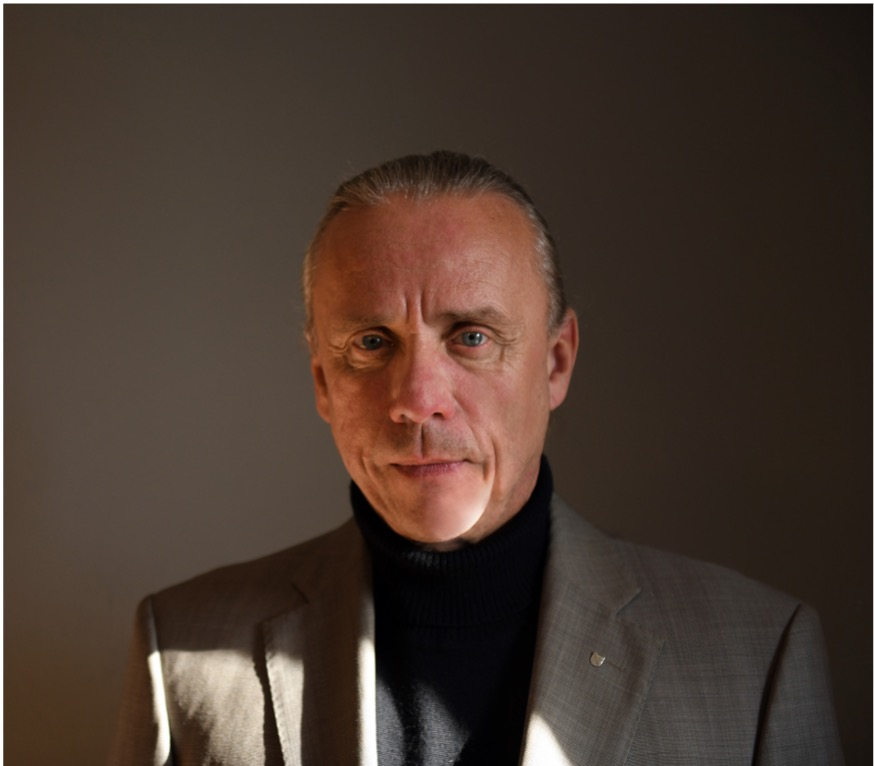
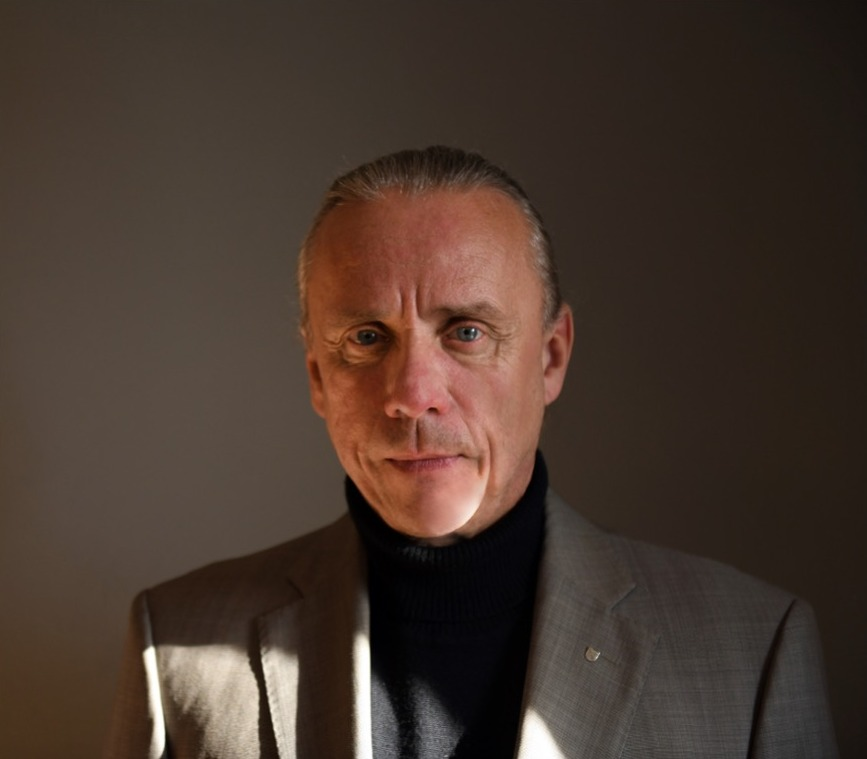
cv: Grey/Sleek-Theme (monochrom), Foto-Rand-Crop, EN ohne Foto, non-blocking Fonts

diff --git a/HTML/cv.html b/HTML/cv.html
@@ -8,101 +8,99 @@
 <link rel="icon" href="resources/favicon.svg">
 <link rel="preconnect" href="https://fonts.googleapis.com">
 <link rel="preconnect" href="https://fonts.gstatic.com" crossorigin>
-<link href="https://fonts.googleapis.com/css2?family=Orbitron:wght@500;700;900&display=swap" rel="stylesheet">
+<!-- Non-blocking font load: page renders instantly on bad networks, Orbitron swaps in when available -->
+<link href="https://fonts.googleapis.com/css2?family=Orbitron:wght@500;700;900&display=swap" rel="stylesheet" media="print" onload="this.media='all'">
+<noscript><link href="https://fonts.googleapis.com/css2?family=Orbitron:wght@500;700;900&display=swap" rel="stylesheet"></noscript>
 <style>
+  /* Monochrome "sleek" theme: graphite greys, hairlines, no colour */
   :root {
-    --bg: rgb(8, 20, 42);
-    --panel: rgb(14, 36, 78);
-    --panel-soft: rgba(14, 36, 78, 0.55);
-    --lambda: rgb(245, 194, 66);   /* orange – text/accents only */
-    --phi: rgb(121, 158, 49);      /* green – actions/active */
-    --upsilon: rgb(176, 36, 24);   /* red – sparingly */
-    --text: #e8eef9;
-    --muted: #9fb0cc;
-    --line: rgba(159, 176, 204, 0.25);
+    --bg: #141518;
+    --card: #1b1d21;
+    --text: #e8eaed;
+    --muted: #979da6;
+    --hair: rgba(255, 255, 255, 0.10);
+    --hair-strong: rgba(255, 255, 255, 0.28);
   }
   * { margin: 0; padding: 0; box-sizing: border-box; }
   html { scroll-behavior: smooth; }
   body {
-    background: radial-gradient(1200px 600px at 70% -10%, rgba(121, 158, 49, 0.08), transparent 60%),
-                radial-gradient(900px 500px at 10% 110%, rgba(245, 194, 66, 0.06), transparent 60%),
+    background: radial-gradient(1100px 500px at 50% -20%, rgba(255, 255, 255, 0.045), transparent 65%),
                 var(--bg);
     color: var(--text);
     font-family: -apple-system, BlinkMacSystemFont, "Segoe UI", Roboto, Helvetica, Arial, sans-serif;
-    line-height: 1.55;
+    line-height: 1.6;
     min-height: 100vh;
-    padding: 24px 16px 48px;
+    padding: 28px 16px 52px;
   }
-  .wrap { max-width: 940px; margin: 0 auto; }
+  ::selection { background: rgba(255, 255, 255, 0.18); }
+  .wrap { max-width: 920px; margin: 0 auto; }
 
   /* ---------- top bar: language switcher + print ---------- */
   .topbar {
     display: flex; justify-content: flex-end; align-items: center; gap: 10px;
-    flex-wrap: wrap; margin-bottom: 18px;
+    flex-wrap: wrap; margin-bottom: 20px;
   }
-  .langs { display: flex; gap: 8px; flex-wrap: wrap; }
+  .langs { display: flex; gap: 7px; flex-wrap: wrap; }
   .lang-btn {
-    font-family: "Orbitron", sans-serif; font-weight: 700; font-size: 0.82rem;
-    letter-spacing: 0.08em; color: var(--muted);
-    background: var(--panel-soft); border: 1px solid var(--line); border-radius: 8px;
-    padding: 8px 13px; cursor: pointer; transition: all 0.18s ease;
+    font-family: "Orbitron", sans-serif; font-weight: 500; font-size: 0.8rem;
+    letter-spacing: 0.1em; color: var(--muted);
+    background: transparent; border: 1px solid var(--hair); border-radius: 999px;
+    padding: 8px 15px; cursor: pointer; transition: all 0.18s ease;
   }
-  .lang-btn:hover { color: var(--text); border-color: var(--phi); }
+  .lang-btn:hover { color: var(--text); border-color: var(--hair-strong); }
   .lang-btn.active {
-    color: #eaf3d8; border-color: var(--phi);
-    background: rgba(121, 158, 49, 0.28);
-    box-shadow: 0 0 10px rgba(121, 158, 49, 0.35);
+    color: #17181b; background: var(--text); border-color: var(--text);
+    font-weight: 700;
   }
   .print-btn {
-    font-family: "Orbitron", sans-serif; font-weight: 700; font-size: 0.82rem;
-    letter-spacing: 0.08em; color: #eaf3d8;
-    background: rgba(121, 158, 49, 0.28); border: 1px solid var(--phi); border-radius: 8px;
-    padding: 8px 13px; cursor: pointer; transition: all 0.18s ease;
+    font-family: "Orbitron", sans-serif; font-weight: 500; font-size: 0.8rem;
+    letter-spacing: 0.1em; color: var(--text);
+    background: transparent; border: 1px solid var(--hair-strong); border-radius: 999px;
+    padding: 8px 15px; cursor: pointer; transition: all 0.18s ease;
   }
-  .print-btn:hover { box-shadow: 0 0 12px rgba(121, 158, 49, 0.45); }
+  .print-btn:hover { background: rgba(255, 255, 255, 0.08); }
 
   /* ---------- card ---------- */
   .card {
-    background: linear-gradient(180deg, rgba(14, 36, 78, 0.85), rgba(10, 26, 56, 0.9));
-    border: 1px solid var(--line); border-radius: 16px;
-    padding: clamp(22px, 4vw, 44px);
-    box-shadow: 0 18px 50px rgba(0, 0, 0, 0.45);
+    background: var(--card);
+    border: 1px solid var(--hair); border-radius: 18px;
+    padding: clamp(24px, 4.5vw, 52px);
+    box-shadow: 0 24px 60px rgba(0, 0, 0, 0.5);
   }
 
   /* ---------- header ---------- */
   header.cv-head {
-    display: flex; gap: clamp(18px, 3vw, 34px); align-items: center;
-    flex-wrap: wrap; margin-bottom: 8px;
+    display: flex; gap: clamp(18px, 3vw, 36px); align-items: center;
+    flex-wrap: wrap; margin-bottom: 6px;
   }
   .head-text { flex: 1 1 320px; min-width: 260px; }
   h1 {
-    font-family: "Orbitron", sans-serif; font-weight: 900;
-    font-size: clamp(1.45rem, 4.4vw, 2.35rem);
-    color: var(--lambda); letter-spacing: 0.04em; line-height: 1.15;
-    text-shadow: 0 0 22px rgba(245, 194, 66, 0.25);
-    margin-bottom: 12px;
+    font-family: "Orbitron", sans-serif; font-weight: 700;
+    font-size: clamp(1.4rem, 4.2vw, 2.2rem);
+    color: #ffffff; letter-spacing: 0.06em; line-height: 1.18;
+    margin-bottom: 13px;
   }
-  .contact { color: var(--muted); font-size: 0.95rem; }
+  .contact { color: var(--muted); font-size: 0.94rem; }
   .contact .row { margin: 2px 0; }
-  .contact a { color: var(--text); text-decoration: none; border-bottom: 1px dotted var(--phi); }
-  .contact a:hover { color: #eaf3d8; }
-  .contact .sep { color: var(--upsilon); padding: 0 7px; }
+  .contact a { color: var(--text); text-decoration: none; border-bottom: 1px solid var(--hair-strong); }
+  .contact a:hover { color: #ffffff; border-bottom-color: #ffffff; }
+  .contact .sep { color: var(--hair-strong); padding: 0 8px; }
   .photo {
-    width: clamp(120px, 18vw, 168px); height: clamp(120px, 18vw, 168px);
-    border-radius: 14px; object-fit: cover; object-position: center 20%;
-    border: 1px solid var(--line);
-    box-shadow: 0 8px 26px rgba(0, 0, 0, 0.5);
+    width: clamp(120px, 18vw, 164px); height: clamp(120px, 18vw, 164px);
+    border-radius: 12px; object-fit: cover; object-position: center 20%;
+    border: 1px solid var(--hair-strong);
+    filter: grayscale(1) contrast(1.04);
+    box-shadow: 0 10px 30px rgba(0, 0, 0, 0.55);
   }
 
   /* ---------- sections ---------- */
-  section { margin-top: clamp(22px, 3.4vw, 34px); }
+  section { margin-top: clamp(24px, 3.6vw, 38px); }
   h2 {
-    font-family: "Orbitron", sans-serif; font-weight: 700;
-    font-size: clamp(0.95rem, 2.4vw, 1.12rem);
-    color: var(--lambda); letter-spacing: 0.12em; text-transform: uppercase;
-    padding-bottom: 7px; margin-bottom: 13px;
-    border-bottom: 1px solid transparent;
-    border-image: linear-gradient(90deg, var(--lambda), rgba(245, 194, 66, 0)) 1;
+    font-family: "Orbitron", sans-serif; font-weight: 500;
+    font-size: clamp(0.88rem, 2.2vw, 1rem);
+    color: #ffffff; letter-spacing: 0.22em; text-transform: uppercase;
+    padding-bottom: 8px; margin-bottom: 14px;
+    border-bottom: 1px solid var(--hair);
   }
   p.lead { text-align: justify; hyphens: auto; }
   ul.plain { list-style: none; }
@@ -110,47 +108,48 @@
     padding-left: 20px; position: relative; margin-bottom: 8px;
     text-align: justify; hyphens: auto;
   }
-  ul.plain li::before { content: "▸"; position: absolute; left: 2px; color: var(--phi); }
+  ul.plain li::before { content: "–"; position: absolute; left: 1px; color: var(--muted); }
 
   /* jobs */
-  .job { margin-bottom: 16px; }
+  .job { margin-bottom: 17px; }
   .job-head { display: flex; justify-content: space-between; gap: 12px; flex-wrap: wrap; align-items: baseline; }
-  .job-role { font-weight: 700; color: var(--text); }
-  .job-date { color: var(--lambda); font-size: 0.88rem; white-space: nowrap; font-family: "Orbitron", sans-serif; font-weight: 500; letter-spacing: 0.03em; }
-  .job-org { color: var(--muted); font-style: italic; font-size: 0.95rem; margin: 1px 0 4px; }
+  .job-role { font-weight: 600; color: #ffffff; }
+  .job-date { color: var(--muted); font-size: 0.85rem; white-space: nowrap; font-family: "Orbitron", sans-serif; font-weight: 500; letter-spacing: 0.05em; }
+  .job-org { color: var(--muted); font-style: italic; font-size: 0.94rem; margin: 1px 0 4px; }
   .job ul.plain li { margin-bottom: 4px; }
 
   footer {
-    text-align: center; color: var(--muted); font-size: 0.82rem;
-    margin-top: 26px;
+    text-align: center; color: var(--muted); font-size: 0.8rem;
+    margin-top: 28px; letter-spacing: 0.03em;
   }
-  footer a { color: var(--muted); text-decoration: none; border-bottom: 1px dotted var(--phi); }
+  footer a { color: var(--muted); text-decoration: none; border-bottom: 1px solid var(--hair-strong); }
+  footer a:hover { color: var(--text); }
 
-  noscript { display: block; text-align: center; color: var(--lambda); padding: 30px 0; }
+  noscript { display: block; text-align: center; color: var(--muted); padding: 30px 0; }
 
   @media (max-width: 560px) {
     body { padding: 14px 8px 32px; }
     header.cv-head { flex-direction: column-reverse; text-align: center; }
-    .photo { width: 150px; height: 150px; }
+    .photo { width: 148px; height: 148px; }
     .contact .row { line-height: 1.7; }
     .job-head { flex-direction: column; gap: 0; }
     p.lead, ul.plain li { text-align: left; }
   }
 
-  /* ---------- print: clean light CV ---------- */
+  /* ---------- print: clean light CV, greyscale ---------- */
   @media print {
-    body { background: #fff; color: #16233c; padding: 0; font-size: 11pt; }
+    body { background: #fff; color: #1c1e21; padding: 0; font-size: 11pt; }
     .topbar, footer, noscript { display: none !important; }
     .card { background: #fff; border: none; box-shadow: none; border-radius: 0; padding: 0; }
-    h1 { color: #1f3864; text-shadow: none; }
-    h2 { color: #1f3864; border-image: none; border-bottom: 1.5px solid #1f3864; }
-    .contact, .job-org { color: #47566f; }
-    .contact a { color: #16233c; border-bottom: none; }
-    .contact .sep { color: #b02418; }
-    .job-role { color: #16233c; }
-    .job-date { color: #1f3864; }
-    ul.plain li::before { color: #799e31; }
-    .photo { box-shadow: none; border: 1px solid #ccd3de; }
+    h1 { color: #111; }
+    h2 { color: #111; border-bottom: 1.5px solid #111; }
+    .contact, .job-org { color: #55595f; }
+    .contact a { color: #1c1e21; border-bottom: none; }
+    .contact .sep { color: #9aa0a8; }
+    .job-role { color: #111; }
+    .job-date { color: #55595f; }
+    ul.plain li::before { color: #9aa0a8; }
+    .photo { box-shadow: none; border: 1px solid #d5d8dc; filter: grayscale(1); }
     section, .job { break-inside: avoid; }
   }
 </style>
@@ -269,6 +268,8 @@ const CV = {
   en: {
     label: "EN", langName: "English",
     title: "CV – Dr Michael R. Alvers",
+    /* UK convention: no photo on the CV (matches the UK PDF) */
+    photo: false,
     photoAlt: "Portrait of Dr Michael R. Alvers",
     printLabel: "Print / PDF",
     name: "Dr Michael R. Alvers",
@@ -636,7 +637,9 @@ function setLang(code, updateUrl) {
   document.documentElement.lang = code;
   document.title = cv.title;
   document.getElementById("cvName").textContent = cv.name;
-  document.getElementById("cvPhoto").alt = cv.photoAlt;
+  const photo = document.getElementById("cvPhoto");
+  photo.alt = cv.photoAlt;
+  photo.style.display = cv.photo === false ? "none" : "";
   document.getElementById("printBtn").textContent = cv.printLabel;
   renderContact(document.getElementById("cvContact"), cv.contact);
   renderSections(document.getElementById("cvMain"), cv.sections);
